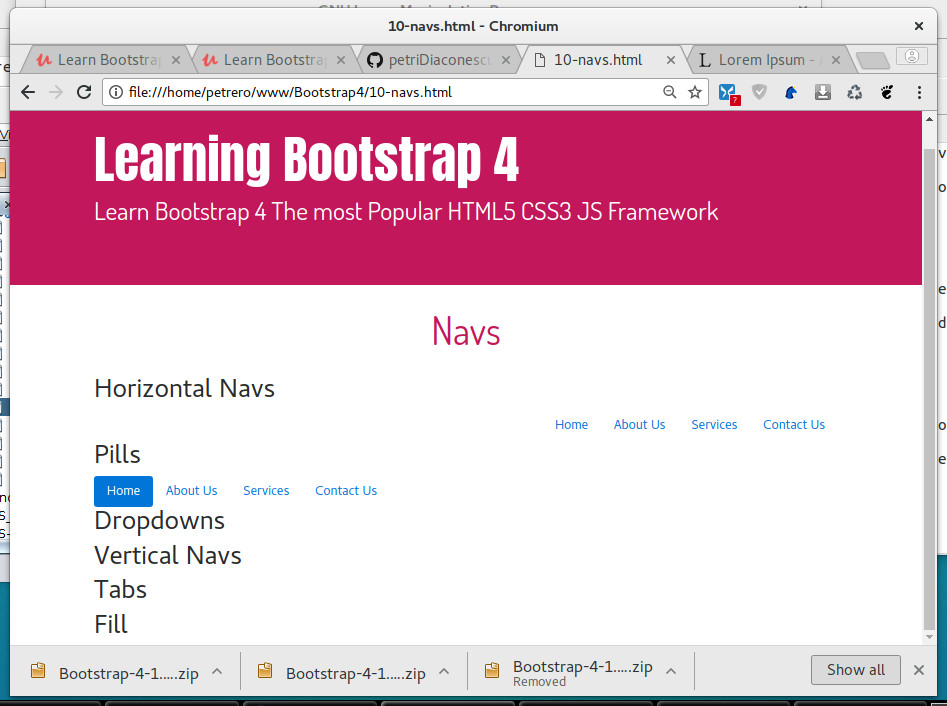
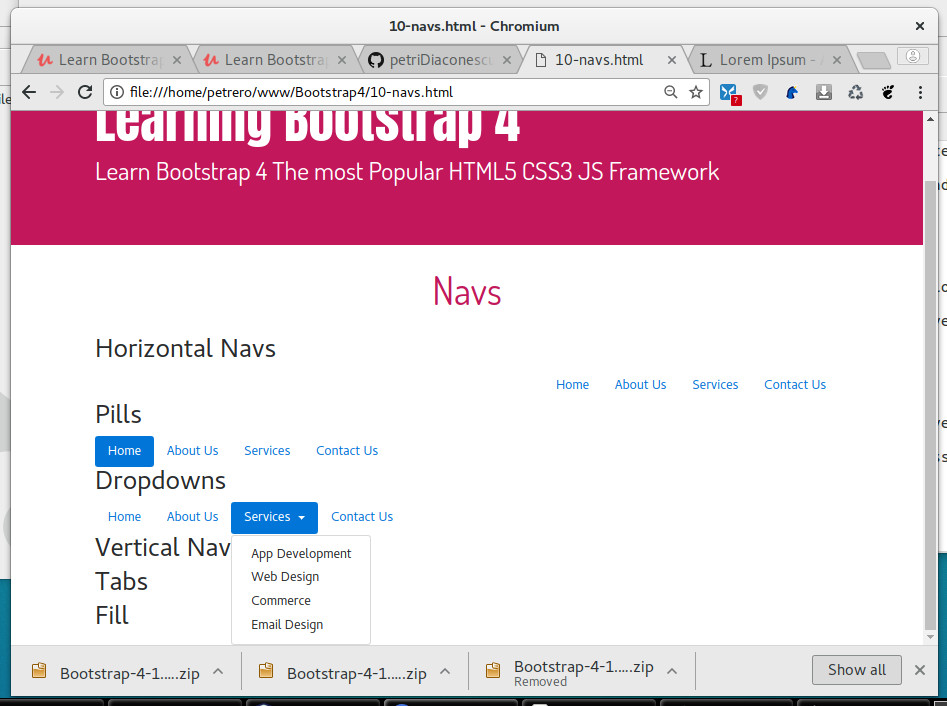
Create a menu with dropdowns

diff --git a/10-navs.html b/10-navs.html
@@ -64,7 +64,33 @@
          </nav>
 
          <h2>Dropdowns</h2>
-
+         <nav>
+           <ul class="nav nav-pills">
+             <li class="nav-item">
+                 <a class="nav-link" href="#">Home</a>
+             </li>
+             <li class="nav-item">
+                 <a class="nav-link" href="#">About Us</a>
+             </li>
+             <li class="nav-item dropdown">
+                 <a class="nav-link dropdown-toggle" 
+                   data-toggle="dropdown" role="button" 
+                   aria-haspopup="true" aria-expanded="false"
+                   href="#">
+                    Services
+                 </a>
+                 <div class="dropdown-menu">
+                   <a href="" class="dropdown-item">App Development</a>
+                   <a href="" class="dropdown-item">Web Design</a>
+                   <a href="" class="dropdown-item">Commerce</a>
+                   <a href="" class="dropdown-item">Email Design</a>
+                 </div>
+             </li>
+             <li class="nav-item">
+                 <a class="nav-link" href="#">Contact Us</a>
+             </li>
+           </ul>
+         </nav>
 
 
          <h2>Vertical Navs</h2>
